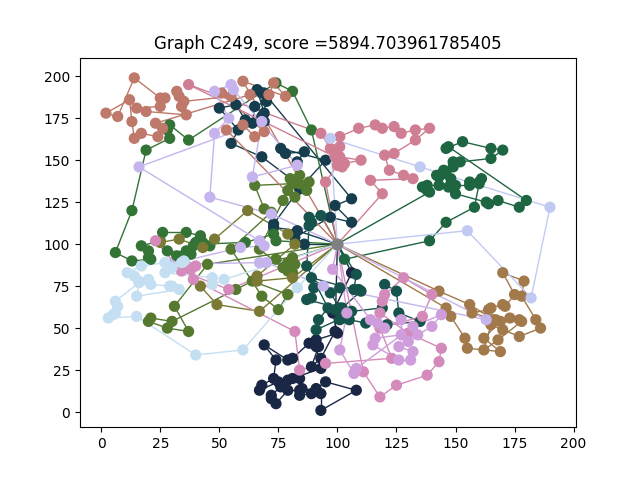
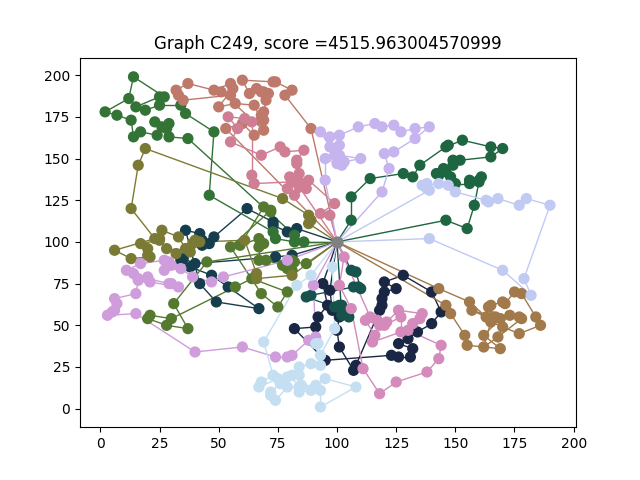
long-term ILS run

diff --git a/source/main.py b/source/main.py
@@ -19,7 +19,7 @@ def main(graph_path):
     local_solution = solver.local_search(init_solution)
     history = [local_solution.copy()]
 
-    timeout = time.time() + 60 * 8  # 8 minutes from now
+    timeout = time.time() + 60 * 120  # 120 minutes from now
     for _ in range(1000):
         perturbed_solution = solver.perturbation(local_solution.copy())
         local_solution = solver.local_search(perturbed_solution.copy())
@@ -41,8 +41,10 @@ def main(graph_path):
 
 if __name__ == "__main__":
     root_dir = "../data/instances"
+    bonus_dir = os.path.join(root_dir, "bonus")
     problem_path_list = [os.path.join(root_dir, it) for it in os.listdir(root_dir) if
-                         it.endswith(".txt") or it.endswith(".TXT")]
+                         it.endswith(".txt") or it.endswith(".TXT")] + [os.path.join(bonus_dir, it) for it in
+                                                                        os.listdir(bonus_dir)]
     with Pool(processes=4) as pool:
         for res in pool.imap_unordered(main, problem_path_list):
             pass
